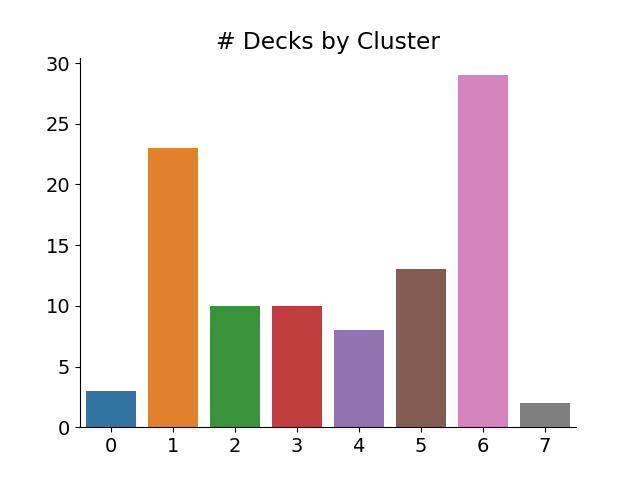
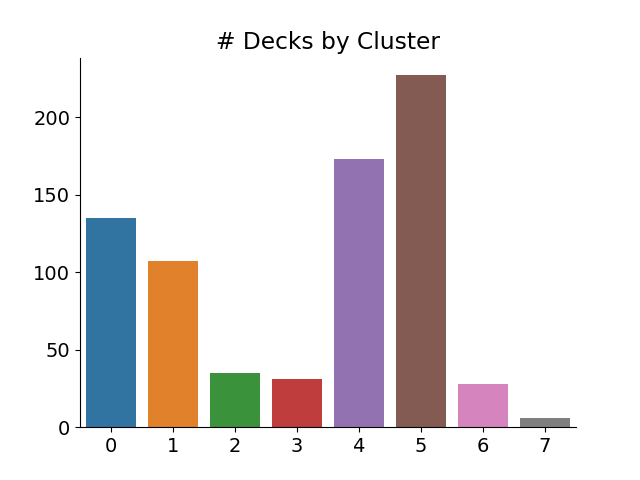
work with json

diff --git a/metagame.py b/metagame.py
@@ -4,30 +4,30 @@ from matplotlib.pyplot import pie, axis, show
 import math
 import seaborn as sns
 import matplotlib.pyplot as plt
+import json
 
-deck_names = glob.glob("modern_decks/*")
 decks = []
-
 NUM_CLUSTERS = 8
+FORMAT = 'modern'
 
-for filename in deck_names:
-    with open(filename, 'r') as deck:
-        decks.append(deck.read())
+with open('decks_json/decks-' + FORMAT + '.json') as f:
+    decks_json = json.load(f)
+    # print(decks_json)
 
-for i, deck in enumerate(decks):
-    decks[i] = deck.split('\n')[1:]
-
-# print(decks)
-
-for deck in decks:
-    for i, card in enumerate(deck):
-        if card is not '':
-            quantity = int(card.split(' ')[0])
-            card_name = ' '.join(card.split(' ')[1:])
-            deck[i] = (quantity, card_name)
-        else:
-            deck.remove(card)
+for deck in decks_json:
+    try:
+        if deck['main'][0]['name'] is not None:
+            cards_in_deck = []
+            # deck_name = str(deck['name']).replace("/", "_")
+            for card in deck['main']:
+                card_name = str(card['name']).replace("'", "\\'")
+                quantity = int(card['quantity'])
+                cards_in_deck.append([quantity, card_name])
+            decks.append(cards_in_deck)
+    except Exception as e:
+        print(e)
 print(decks)
+
 
 def card_names(a_deck):
     return [card[1] for card in a_deck]
